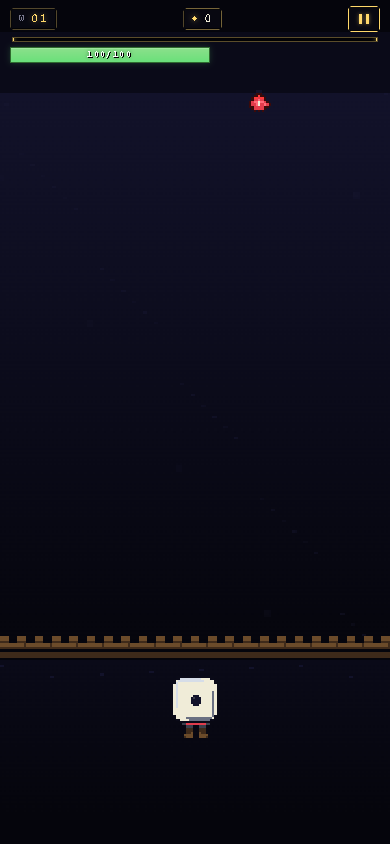
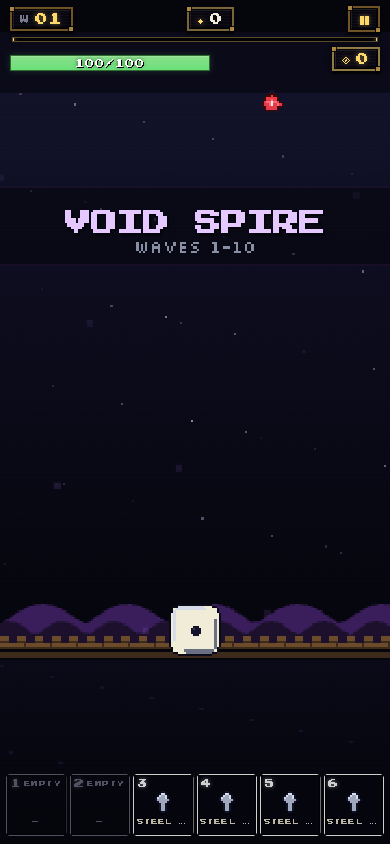
docs(readme): refresh pitch, forge flow, and screenshots

diff --git a/README.md b/README.md
@@ -1,76 +1,81 @@
 # ROLLguelike
 
-**Tap the die. Survive the waves. Stack ridiculous upgrades.**
+**Tap the die. Forge your faces. Survive the waves.**
 
-ROLLguelike is a **mobile-first browser roguelite**: enemies fall from the top, you stay anchored at the bottom, and every roll fires an auto-aimed attack based on the face you land on. Clear a wave, pick an upgrade (rerolls are free), repeat until the wall breaks or you do.
+ROLLguelike is a **mobile-first browser roguelite**: enemies fall from the top, you stay anchored at the bottom, and every roll resolves a **die face** — bolts, bursts, heals, shields, reactions, and wild effects — auto-aimed based on what you slotted on your d6. Clear a wave, hit the **forge**, spend **gold** to grow your build, repeat until the wall breaks or you do.
 
-Pixel UI, crunchy SFX, and endless scaling difficulty — built to play in a phone browser without installing anything.
+Pixel UI, procedural **menu backdrops** (a fresh theme when you return to the title), crunchy SFX, and **unlockable die skins** — built to play in a phone browser without installing anything.
 
 ---
 
 ## See it in action
 
-Portrait layout: **shrine → choose your chalice → arena.**
+After each normal wave: **forge** (faces, gold, free rerolls). On **boss** waves: draft **landmarks** (map furniture) for two picks, then the run continues. Title screen: **Log of the Fallen** stats, **face codex** progress, and **Change dice look**.
 
-| Shrine | Chalice hall | The arena |
+| Main menu | Chalice hall | The arena |
 |:---:|:---:|:---:|
-| ![Main menu — die altar and enter flow](docs/screenshots/menu.png) | ![Character grid and hero dossier](docs/screenshots/character-select.png) | ![Combat — HUD, wall, enemies, projectiles](docs/screenshots/gameplay.png) |
-| Meta stats, **New run**, and the glowing die inviting you in. | Six heroes (one unlock); each has their own die identity and playstyle. | Wave counter, score, streak — tap to roll and let attacks find their targets. |
+| ![Main menu — themed scene, title, enter flow](docs/screenshots/menu.png) | ![Character grid and roller dossier](docs/screenshots/character-select.png) | ![Combat — HUD, wall, face bar, projectiles](docs/screenshots/gameplay.png) |
+| Rotating **menu theme**; meta stats, **New run** / **Enter the shrine**; **Codex** tile. | **Choose your roll** — six heroes; sealed heroes show unlock rules. | Wave, score, gold; **face bar** shows the six slotted attacks; tap to roll. |
+
+| Die themes |
+|:---:|
+| ![Dice look picker — swatches and unlock hints](docs/screenshots/dice-look.png) |
+| **DICE LOOK** — pick a visual theme; **locked** swatches show the challenge to earn them. |
 
 **UI highlights**
 
-- **Die altar** on the title — live pixel die, shrine lighting, torch embers.
-- **Character select** — grid of chalices, readable dossier, color-coded identity per hero.
-- **In-run HUD** — minimal top strip; arena stays readable during chaos.
-- **Upgrade picker** — card layout with rarity, stacking rules, and instant reroll (no tax on curiosity).
-- **Boss cadence** — every 5th wave is a boss; beat it for **two** upgrade picks.
+- **Themed main menu** — canvas backdrop (sky temple, vault, cove, …) re-rolls when you re-enter; die altar, flavor ticker, v2 layout.
+- **Character select** — chalice grid, portrait frame, per-hero identity and **Roll** / **Sealed** flow.
+- **In-run** — face bar + HUD strip; **forge** with drag–drop offers, **supplements**, sell, slot expansion, optional skip-for-heal.
+- **Landmarks** (boss waves) — card draft with rarity; two picks on a boss clear when the pool is available.
+- **Settings** — audio, haptics, motion, **accessibility** (contrast, large text, reduce motion, damage numbers, HP bar mode, auto-roll, …).
 
 ---
 
 ## The loop (one thumb)
 
-1. **Roll** — Tap the die (or hold, for Clockmaker). Faces are attacks: bolts, smashes, heals, shields, elements, souls — depending on who you picked.
-2. **Clear** — Auto-targeting keeps focus on play; you’re managing cadence and risk, not a virtual joystick.
-3. **Choose** — After each wave, draft an upgrade. Build toward multishot, reactions, extra dice, turrets, or pure survivability.
-4. **Scale** — Difficulty and variety climb; reactions and arsenal shots reward elemental planning.
+1. **Roll** — Tap the die (or hold, for **Clockmaker**). Each result fires the **face** slotted in that position — multishot, elements, turrets, novas, depending on your forge choices.
+2. **Clear** — Auto-targeting keeps focus on play; you’re reading patterns and economy, not aiming.
+3. **Forge** (most waves) — Spend **gold** on offers: replace a face, attach **supplement** passives, tier up, rearrange slots, or sell. **Rerolls are free.**
+4. **Boss interlude** — On boss waves, pick **landmarks** (turrets, beacons, wall tricks, …) with **two** selections when the draft fires; then the next wave starts.
+5. **Meta** — **Die themes** unlock from in-run challenges; pick them on the title screen. **Runs**, **waves**, **high score**, **heroes**, and **codex** progress save in the browser.
 
 ---
 
 ## Heroes (chalices)
 
-Each run is built around **one** character — same core loop, very different dice math.
+Each run is built around **one** character — same core loop, different starting faces and passives.
 
 | Hero | Unlock | What it feels like |
 |------|--------|--------------------|
-| **Soldier** | Starter | Reliable d6 all-rounder. |
-| **Gambler** | Starter | Blank faces swing huge; blanks can shield you. |
-| **Alchemist** | Starter | Every face carries **element** tags — combine for big **reaction** bursts. |
-| **Necromancer** | Starter | Kills feed **souls**; soul faces cash in for heavy hits. |
-| **Berserker** | Starter | Faster rolls, **rage** on kills, faces that scale with momentum. |
-| **Clockmaker** | Finish **3 runs** | **Hold to charge** rolls; enemies slow near your wall. |
+| **Soldier** | Starter | Solid **d6** baseline; room to **forge** into anything. |
+| **Gambler** | Starter | **Blank** faces and big tempo swings. |
+| **Alchemist** | Starter | **Element** tags; combine for **reaction** bursts. |
+| **Necromancer** | Starter | Kills → **souls**; soul faces pay off. |
+| **Berserker** | Starter | Momentum, **rage**, and faster cadence. |
+| **Clockmaker** | Finish **3 runs** | **Hold to charge** rolls; time-bend fantasy. |
 
 ---
 
-## Upgrades — build variety
+## Builds — faces, gold, and landmarks
 
-Drafts pull from a wide pool: you’re not just “+damage” — you’re assembling **synergies**.
+You’re not shopping abstract “+damage” rows anymore — you’re **composing a die**:
 
-| Track | What you’re signing up for | Examples |
-|--------|----------------------------|----------|
-| **Dice** | More dice, biased rolls, face rewrites | *Second Die*, *Third Die*, *Loaded: Six*, *Wild Face*, *Cascade* |
-| **Projectile** | On-hit behavior and scaling | *Piercing*, *Ricochet*, *Chain*, *Homing*, *Split Shot*, *Executioner* |
-| **Passive** | Sustain and mitigation | *Vitality*, *Regeneration*, *Iron Skin*, *Bloodlust*, *Resolve* |
-| **AoE** | Screen-wide rhythm and payoff | *Death Nova*, *Shockwave Hit*, *Orbital Strike*, *Finale* |
-| **Landmark** | Map furniture that fights or heals | *Side Turret*, *Healing Beacon*, *Reflective Wall*, *Time Keeper* |
-| **Arsenal** | Element-flavored **alternate shots** | *Firebolt [Thermal]*, *Frost Shard [Cryo]*, *Void Bolt [Void]*, *Prismatic Beam [Prism]* — mix with Alchemist for fireworks |
+| Layer | What it is | Examples / notes |
+|--------|------------|------------------|
+| **Face replacers** | Replace default pips with named attacks, heals, or utilities | Shots, novas, **lances**, familiars, **transmute**, … |
+| **Supplements** | Extra passives that sit with a face | Tip effects, auras, on-kill rules — gated by **tags** and slot rules |
+| **Gold** | Dropped in combat and from wave clear; spent in the **forge** | Price scales with **tier** and **rarity**; sell/trade off bad rolls |
+| **Landmarks** | **Boss** draft pool — map furniture on your side of the wall | Turrets, beacons, time tricks — `maxStack` and unlock rules apply |
+| **Meta** (title) | Stats, **codex** coverage, **dice look** | Saved locally; challenges unlock **die themes** |
 
-Rarities gate power spikes; stacks and `maxStack` keep things from exploding — until you find the combo that does it on purpose.
+Rarity still gates spikes; the **codex** on the title screen tracks how many face upgrades you’ve seen.
 
 ---
 
 ## Sound & feel
 
-**Procedural chiptune-style BGM**, **jsfxr-style SFX**, and light **haptics** on supported devices — tuned so the game reads as “arcade cabinet in your pocket,” not a muted web demo.
+**Procedural** menu BGM (genre-rotates per menu visit) plus **layered** gameplay music, **jsfxr-style SFX**, and light **haptics** on supported devices — tuned for “arcade cab in your pocket,” not a muted web demo.
 
 ---
 
@@ -87,12 +92,23 @@ Open the URL Vite prints. The game expects **portrait**; landscape on phones sho
 npm run build && npm run preview   # production-shaped build
 ```
 
+### Refresh README screenshots
+
+With the dev server on **`http://127.0.0.1:5173`** (and Chromium installed for Playwright):
+
+```bash
+npx playwright install chromium   # first time only
+npm run screenshot:readme
+```
+
+Writes `docs/screenshots/{menu,dice-look,character-select,gameplay}.png`. Override: `README_SHOT_URL=… npm run screenshot:readme`
+
 ---
 
 ## For developers
 
-Implementation details, folder layout, hook system, content authoring, and screenshot automation: **[TECH.md](./TECH.md)**  
-Product scope and pillars: **[rollguelike-prd.md](./rollguelike-prd.md)**
+Implementation details, folder layout, hook system, and content authoring: **[TECH.md](./TECH.md)**  
+Product scope and pillars: **[rollguelike-prd.md](./rollguelike-prd.md)** (may lag the shipped **dice/forge** model in places).
 
 ## License
 